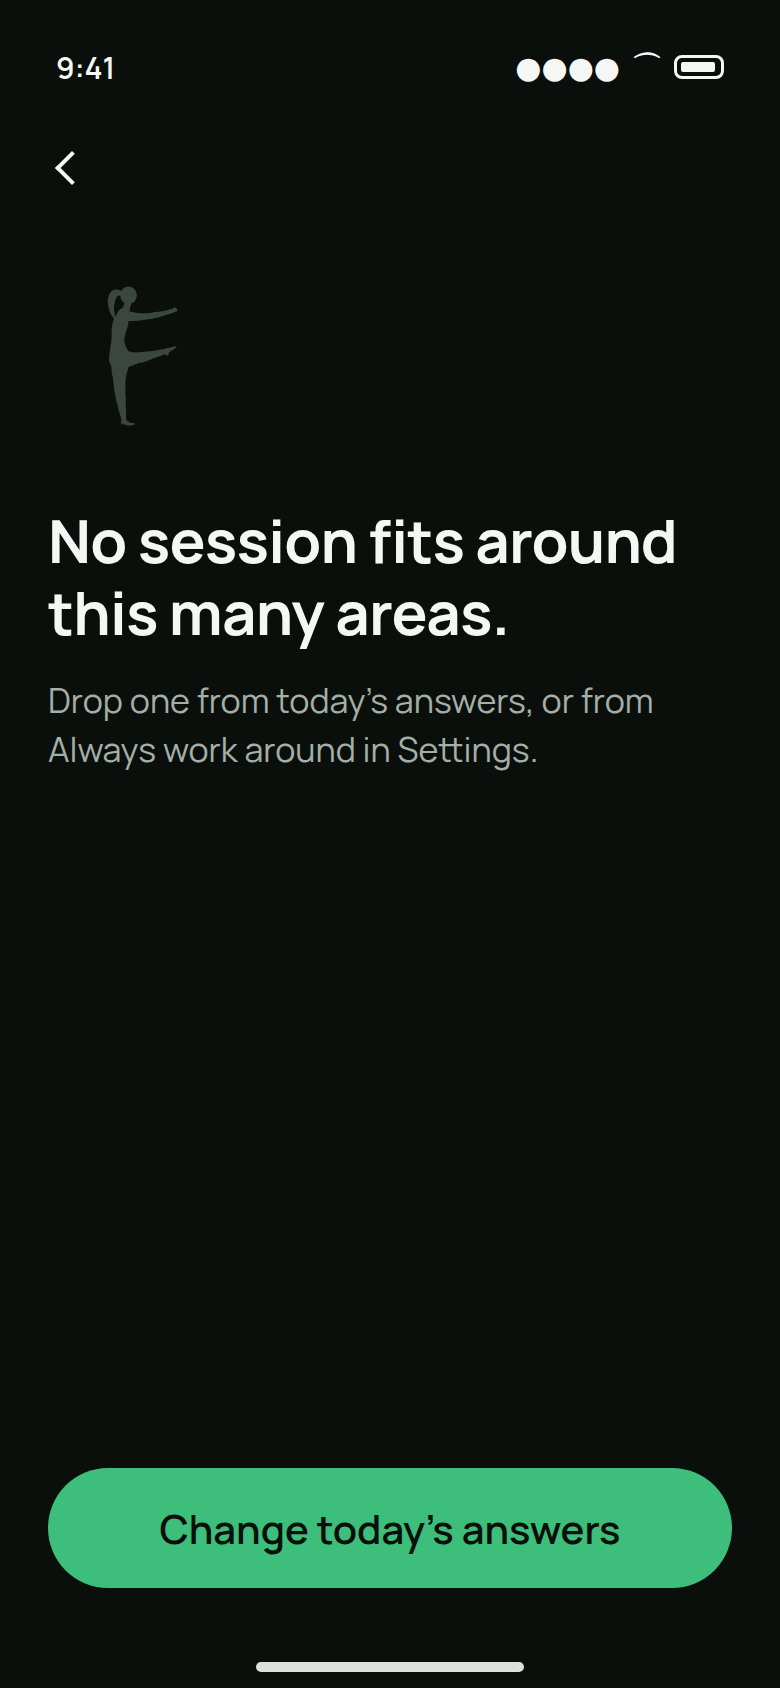
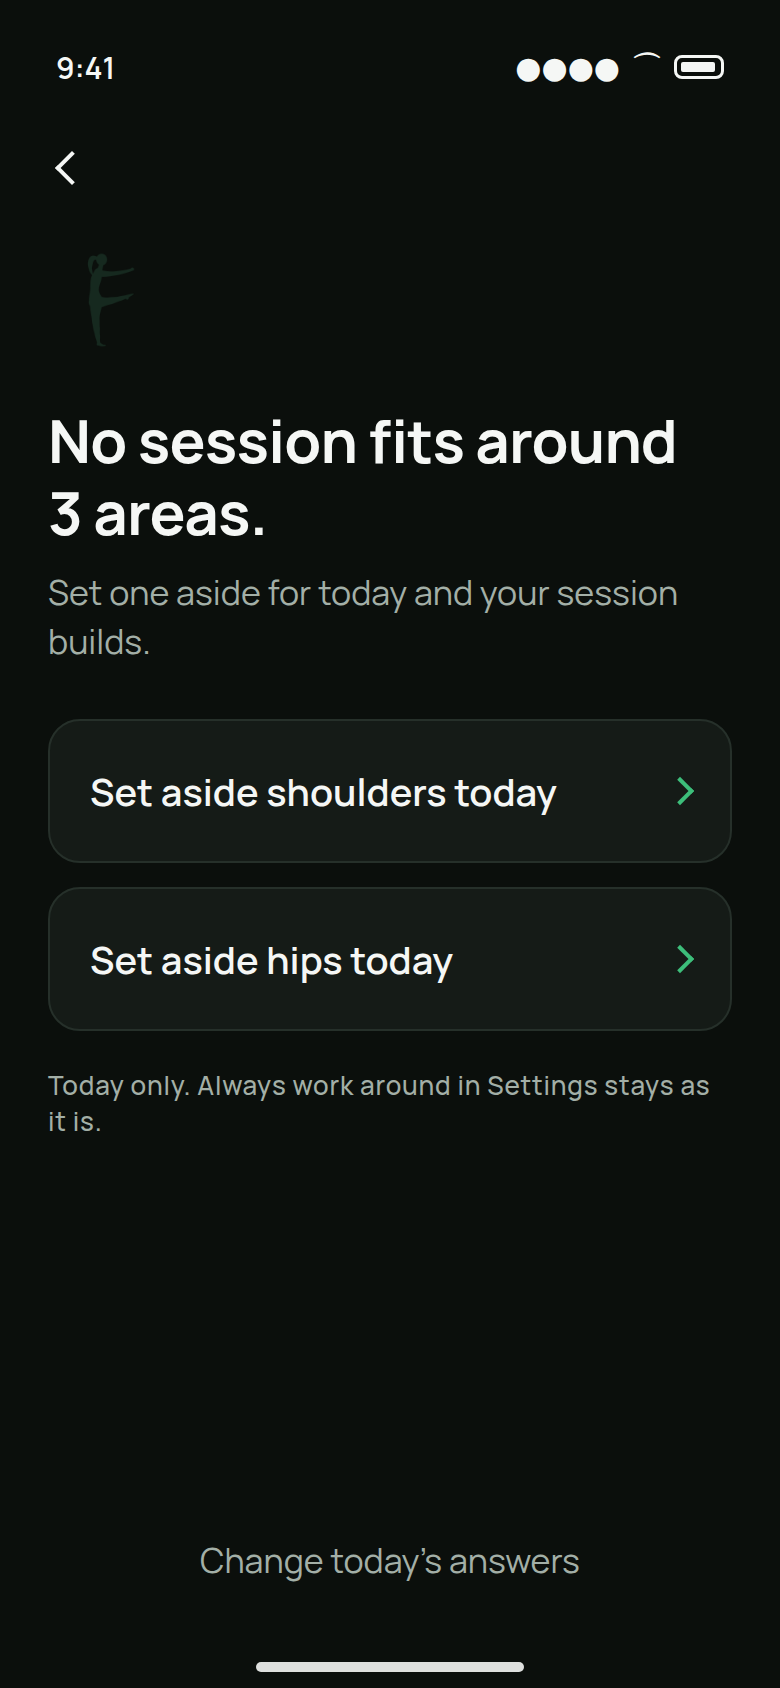
WIP: secondary-state mockups; the no-session outcome recommends which area to set aside

diff --git a/docs/design/mockups/prompt-nosession.html b/docs/design/mockups/prompt-nosession.html
@@ -1,27 +1,22 @@
 <!doctype html><html><head><meta charset="utf-8"><title>No session</title><link rel="stylesheet" href="tokens.css"><link rel="stylesheet" href="_rows.css">
 <style>
-.hero { padding-top: 28px; }
-.hero .display { margin-top: 10px; max-width: 330px; }
-.hero .body-soft { margin-top: 12px; }
-.hero .btn { margin-top: 26px; }
-.streak { display: flex; align-items: center; gap: 10px; margin-top: 18px; }
-.streak .dot { width: 8px; height: 8px; border-radius: 4px; background: var(--accent); }
-.streak .n { font-weight: 600; font-size: 15px; }
-.center { flex: 1; display: flex; flex-direction: column; align-items: center; justify-content: center; text-align: center; gap: 12px; }
-.center .fig { width: 160px; height: 160px; background: var(--ink); -webkit-mask: var(--m) center/contain no-repeat; mask: var(--m) center/contain no-repeat; }
-.pline { position: absolute; top: 54px; left: 0; right: 0; height: 4px; background: var(--rail); } .pline i { display:block; height:100%; width:38%; background: var(--accent); }
-.setc { display: flex; justify-content: space-between; padding-top: 28px; }
-.confirm { background: var(--surface); border: 1px solid var(--line); border-radius: var(--r-card); padding: 20px; margin-top: auto; display: flex; flex-direction: column; gap: 10px; }
-.confirm .btn { margin-top: 4px; }
-.figs { display: flex; gap: 8px; margin-bottom: 20px; } .figs span { width: 72px; height: 72px; background: var(--ink-soft); -webkit-mask: var(--m) center/contain no-repeat; mask: var(--m) center/contain no-repeat; }
-.pts .numeral { color: var(--accent); }
-.ladder { display: flex; align-items: flex-end; justify-content: space-between; margin: 26px 0 6px; height: 72px; }
-.ladder span { width: 42px; height: 42px; background: var(--ink-soft); opacity: .85; -webkit-mask: var(--m) center/contain no-repeat; mask: var(--m) center/contain no-repeat; }
-.ladder span.on { background: var(--accent); opacity: 1; }
-.plan { padding: 14px 18px; border: 1px solid var(--line); border-radius: var(--r-card); background: var(--surface); margin-top: 10px; display: flex; justify-content: space-between; font-size: 18px; font-weight: 600; }
-.plan.sel { background: var(--accent-soft); border-color: var(--accent); }
-.card { background: var(--ink); color: var(--bg); border-radius: 20px; padding: 28px 24px; display: flex; flex-direction: column; align-items: center; gap: 12px; text-align: center; width: 100%; }
-.card .rule { width: 40px; height: 4px; border-radius: 2px; background: var(--accent); }
-.card .fig { width: 140px; height: 140px; background: var(--bg); -webkit-mask: url('../../../app/assets/movements/full-push-up.png') center/contain no-repeat; mask: url('../../../app/assets/movements/full-push-up.png') center/contain no-repeat; }
-.card .mark { width: 22px; height: 22px; background: var(--accent); -webkit-mask: url('../../../app/assets/brand/mark.png') center/contain no-repeat; mask: url('../../../app/assets/brand/mark.png') center/contain no-repeat; }
-</style></head><body><div class="phone"><div class="statusbar"><span>9:41</span><span class="right"><span>●●●●</span><span>⌒</span><span class="batt"></span></span></div><div class="screen"><div class="rail"><span class="chevron"></span></div><div class="center" style="align-items:flex-start;text-align:left;justify-content:flex-start;padding-top:40px;gap:14px"><span style="width:96px;height:96px;background:var(--rail);-webkit-mask:url('../../../app/assets/brand/mark.png') center/contain no-repeat;mask:url('../../../app/assets/brand/mark.png') center/contain no-repeat;margin-bottom:12px"></span><div class="title">No session fits around this many areas.</div><div class="body-soft" style="max-width:330px">Drop one from today's answers, or from Always work around in Settings.</div></div><div class="bottom"><div class="btn btn-primary">Change today's answers</div></div></div><div class="home-indicator"></div></div></body></html>
+.mark { width: 64px; height: 64px; background: var(--accent-soft); -webkit-mask: url('../../../app/assets/brand/mark.png') center/contain no-repeat; mask: url('../../../app/assets/brand/mark.png') center/contain no-repeat; margin-top: 28px; }
+.title { margin-top: 20px; max-width: 330px; }
+.instr { margin-top: 10px; margin-bottom: 26px; max-width: 330px; }
+.row { justify-content: space-between; min-height: 72px; font-size: 19px; }
+.row .arrow { width: 10px; height: 10px; border-right: 2px solid var(--accent); border-top: 2px solid var(--accent); transform: rotate(45deg); }
+.note { margin-top: 6px; }
+.bottom { padding-bottom: 8px; }
+</style></head><body><div class="phone">
+<div class="statusbar"><span>9:41</span><span class="right"><span>●●●●</span><span>⌒</span><span class="batt"></span></span></div>
+<div class="screen">
+  <div class="rail"><span class="chevron"></span></div>
+  <div class="mark"></div>
+  <div class="title">No session fits around 3 areas.</div>
+  <div class="body-soft instr">Set one aside for today and your session builds.</div>
+  <div class="row">Set aside shoulders today<span class="arrow"></span></div>
+  <div class="row">Set aside hips today<span class="arrow"></span></div>
+  <div class="caption note">Today only. Always work around in Settings stays as it is.</div>
+  <div class="bottom"><div class="btn btn-quiet">Change today's answers</div></div>
+</div>
+<div class="home-indicator"></div></div></body></html>

diff --git a/app/src/copy/strings.ts b/app/src/copy/strings.ts
@@ -177,6 +177,25 @@ export const strings = {
       lineSome: "You trained today. It counts.",
       action: "Another session",
     },
+    // COPY-WRITER (2026-09-07, owner feedback): the no-session screen
+    // recommends, it does not describe. The engine reports which of the
+    // avoided areas would, set aside for today only, let a session build.
+    // Order on screen: `headline` (the situation, count is always 3 or
+    // more), `instruction`, one `setAside` row per unblocking area (the
+    // caller passes the area label lowercased), `settingsNote` only when
+    // at least one avoided area came from Always work around, then
+    // preview.changeAnswers. Setting aside is today only; the Settings
+    // list is never touched, and settingsNote says so in the list's own
+    // name. `none` replaces the rows when no single area unblocks;
+    // errors.noSession stays the fallback below it. No blame: the areas
+    // are named as a count, never as her choices, and nothing is wrong.
+    noSession: {
+      headline: (count: number) => `No session fits around ${count} areas.`,
+      instruction: "Set one aside for today and your session builds.",
+      settingsNote: "Today only. Always work around in Settings stays as it is.",
+      setAside: (area: string) => `Set aside ${area} today`,
+      none: "Set two aside today, from your answers or from Always work around in Settings.",
+    },
   },
   player: {
     sessionProgress: "Session progress",

diff --git a/.claude/skills/fither-code/references/design-system.md b/.claude/skills/fither-code/references/design-system.md
@@ -201,3 +201,8 @@ is what gets built.
   those chevrons open is a screen and goes to the owner for approval
   before it is built. Nothing reaches main without the owner's approval
   of every screen it contains.
+- 2026-09-07, final batch approved except the no-session outcome: "No
+  session fits" described the problem. → Rule: an outcome screen that
+  blocks her recommends the way out as tappable actions (the engine
+  names which areas unblock; one row each, today only), never a
+  description plus a generic button. Applies to every dead end.
